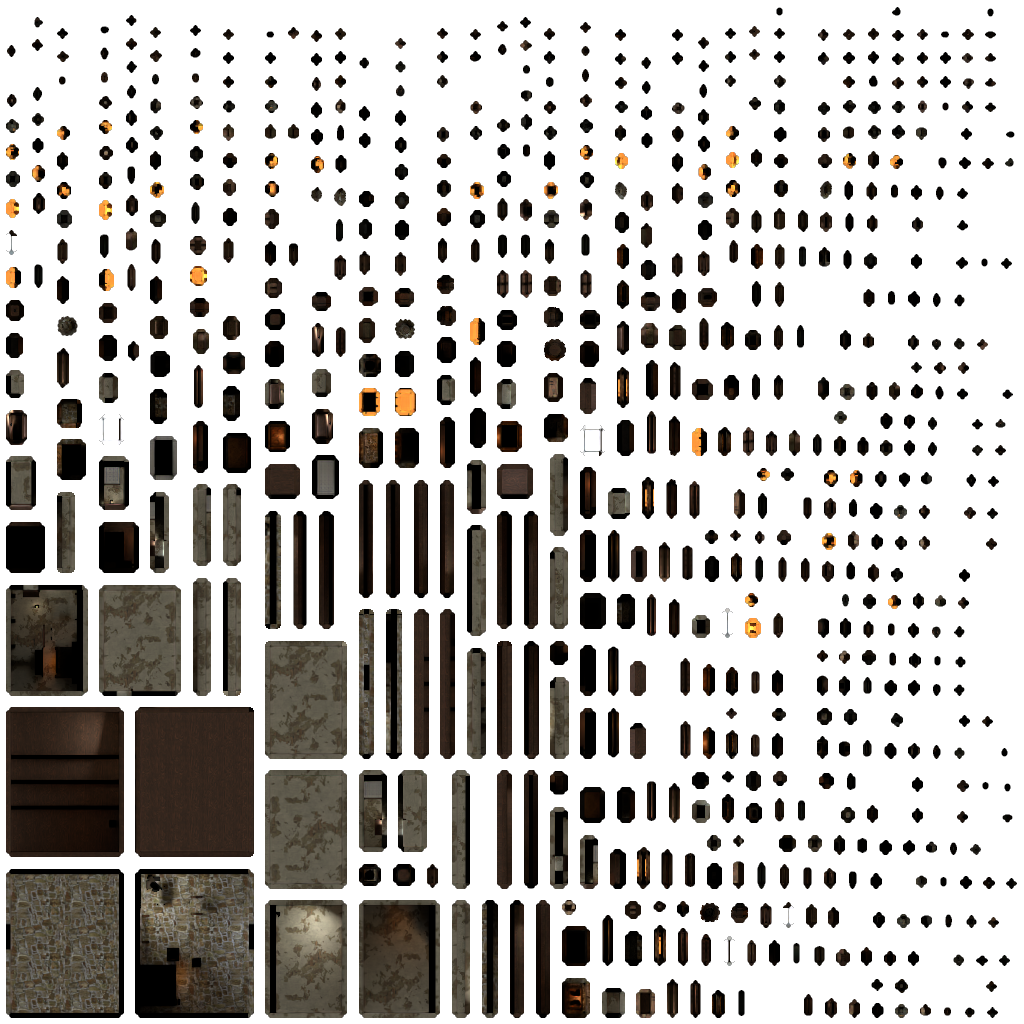
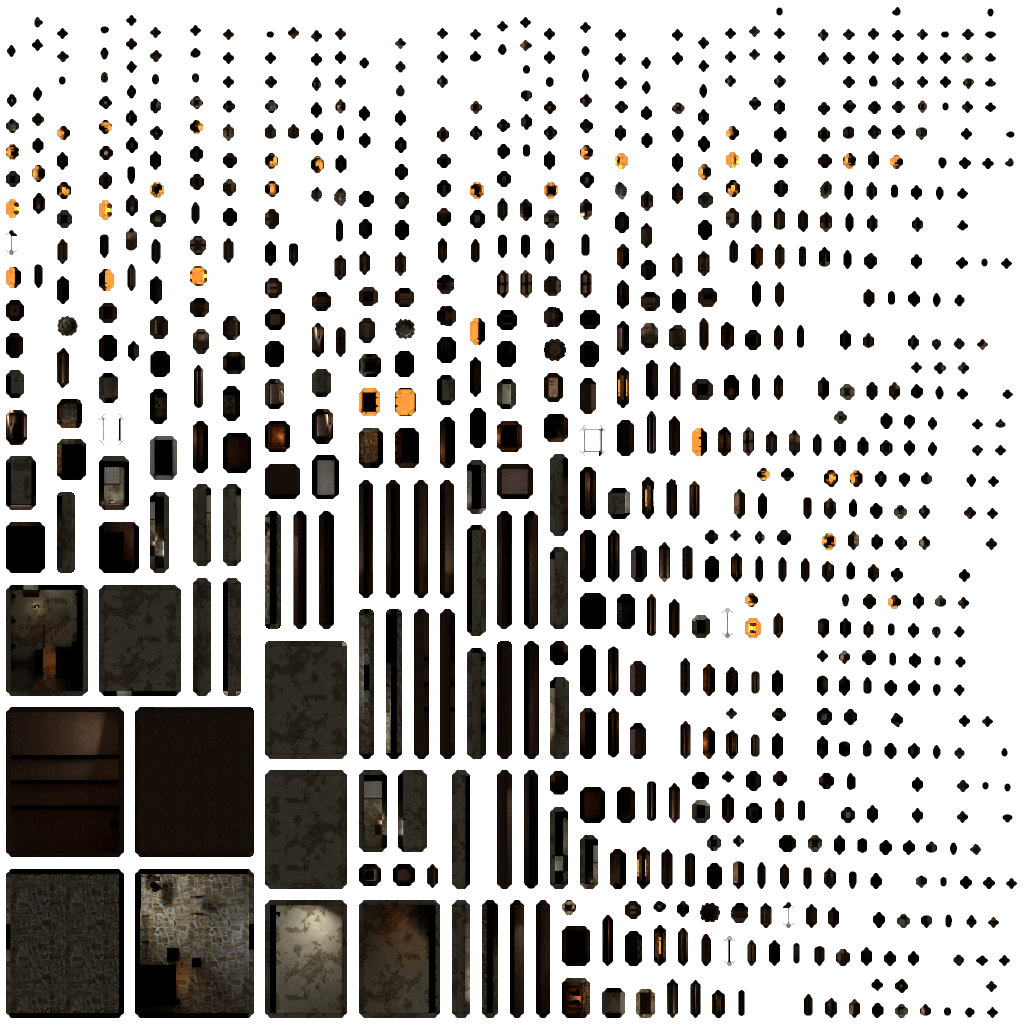
St. Maria: light the shops for the mood, instead of fogging them into it
The in-engine 3D rooms read better than the plates -- more grit, more
palette -- and the reason turned out to be three separate things wearing one
impression.

The darkness was engine fog. Neither map carries a `fog` key, so FOG_DEFAULTS
applied: black, distance 8.0, minFactor 0.12, ground_distance from the room's
middle. Neutralising it puts the world strip at mean 92.14 against 45.02, so
the room was keeping 48.9% of its brightness, with a real radial profile
(centre 0.549, edges 0.456/0.498). Attractive, and the wrong mechanism: fog is
a uniform multiply toward black, so it dimmed the oven mouth and the window by
the same 51% it dimmed the plaster.

The fix belongs in the source scene. base_lighting's own comment says the fill
is "the largest light in any of these rooms by far", so cutting it darkens
everything the room does not light for itself and leaves everything it does.
From --ambient 0.55 to 0.08 the Padaria's median falls 103 -> 53 (-48%) while
its top 2% -- the oven and the window -- moves 211 -> 204 (-3%). The smith's
median falls 81 -> 27 (-67%) against 190 -> 181 (-4%).

0.55 was never the intended value. st-maria-interior-authoring.md documents the
build command as --ambient 0.13; 0.55 is the argparse default and the flag was
never passed. Both defaults now match the documented value so the discrepancy
cannot cost a third room, and both plates and both bakes were regenerated at
0.13. Nothing about the rooms was re-authored.
[…]

diff --git a/tools/blender/stage_room_model.py b/tools/blender/stage_room_model.py
@@ -542,8 +542,16 @@ def main() -> None:
                         default=INTERIOR_FILL, metavar=("R", "G", "B"),
                         help="baseline fill colour; warm for interiors, "
                              "blue only for an exterior under open sky")
-    parser.add_argument("--ambient", type=float, default=0.55,
-                        help="diffuse baseline visibility (world light)")
+    parser.add_argument("--ambient", type=float, default=0.13,
+                        help="diffuse baseline visibility (world light). "
+                             "Low on purpose: the fill is the largest light "
+                             "in these rooms, so raising it flattens every "
+                             "authored lamp into the wall behind it. At 0.55 "
+                             "the Padaria's median brightness is 103 and its "
+                             "oven mouth 211; at 0.13 the median falls to 64 "
+                             "while the oven holds 205. Cutting the fill "
+                             "costs the practicals almost nothing and buys "
+                             "the room its contrast")
     parser.add_argument("--target-width", type=int, default=None,
                         help="override the target width in native px. The "
                              "game's default horizontal resolution is 256; "

diff --git a/tools/blender/export_room_environment.py b/tools/blender/export_room_environment.py
@@ -203,7 +203,7 @@ def main() -> None:
     parser.add_argument("--atlas-size", type=int, default=1024)
     parser.add_argument("--samples", type=int, default=24)
     parser.add_argument("--decimate", type=float, default=1.0)
-    parser.add_argument("--ambient", type=float, default=0.55,
+    parser.add_argument("--ambient", type=float, default=0.13,
                         help="world fill strength for the bake; must match the plate render or the two presentations are lit differently")
     parser.add_argument("--span", type=float, default=7.7667)
     parser.add_argument("--ceiling", type=float, default=3.9)

diff --git a/docs/reports/st-maria-shops-walkable-2026-08-27.md b/docs/reports/st-maria-shops-walkable-2026-08-27.md
@@ -193,10 +193,11 @@ survives the plate and smears in the bake. That material was tuned to read at
 about five screen pixels; it cannot also survive being resampled through a
 loose atlas.
 
-**The 3D room is still darker,** even after the bake was given the same 0.55
-world fill as the plate. The remaining gap is a Cycles COMBINED bake at 24
-samples against an EEVEE render, which is a real difference in how the two
-integrators handle these dim interior lamps, not a configuration error.
+**The 3D room is darker, and it is fog** -- see "Where the grit came from"
+below. This paragraph previously blamed a Cycles-versus-EEVEE integrator
+difference. That was a guess, and measurement contradicted it: neutralising
+fog alone restores the 3D room to 2.04x its brightness, which leaves nothing
+for the integrators to explain.
 
 **What the 3D version gets that the plate cannot have:** the floor continues
 below the plate's front edge as real geometry, the room has genuine depth for
@@ -223,6 +224,82 @@ authored lamps alone and comes out a cave. The export now calls the stager's
 own `base_lighting` with the same numbers, so the two presentations are lit
 identically and the comparison measures presentation rather than exposure.
 
+## Where the grit came from
+
+The maintainer preferred the in-engine 3D look -- "the palette, lighting and
+dithering give it a lot more grit" -- but wanted those qualities in the
+PRE-RENDERED pipeline rather than adopting realtime 3D backdrops. Three
+separate causes turned out to be behind one impression.
+
+### The darkness was fog, and fog was the wrong tool for it
+
+Neither map carries a `fog` key, so `FOG_DEFAULTS` applied -- and they are
+not neutral: black fog, `startDist` 0, `distance` 8.0, `minFactor` 0.12,
+measured as `ground_distance` radially from the camera target, which in a
+room this small is its middle.
+
+Neutralising fog on map 28 and re-rendering put the world strip at mean
+92.14 against 45.02 with fog -- **the room was keeping 48.9% of its
+brightness** -- with a genuine radial profile (lane centre 0.549, left edge
+0.456, right edge 0.498). That vignette is why it read as depth rather than
+as underexposure.
+
+But fog is a **uniform multiply toward black**. It dimmed the oven mouth and
+the window by the same 51% it dimmed the plaster, which is precisely what a
+lit interior must not do. The mood was right and the mechanism was wrong.
+
+### The fix is in the source scene: cut the fill, not the sources
+
+`base_lighting`'s own comment already says the fill "is the largest light in
+any of these rooms by far". Lowering it darkens everything the room does not
+light for itself, and leaves everything it does. Measured across the sweep:
+
+| | median (the fill) | top 2% (window and fire) |
+|---|---|---|
+| Padaria, `--ambient` 0.55 -> 0.08 | 103 -> 53 (**-48%**) | 211 -> 204 (-3%) |
+| Smith, `--ambient` 0.55 -> 0.08 | 81 -> 27 (**-67%**) | 190 -> 181 (-4%) |
+
+That is the entire difference from fog in one table, and it is why fog was
+not adopted for the plates.
+
+**0.55 was never the intended value.** `st-maria-interior-authoring.md`
+documents the build command as `--ambient 0.13`; 0.55 is the argparse
+default, and the plates were rendered without passing the flag the design
+doc specifies. The default now matches the documented value in both
+`stage_room_model.py` and `export_room_environment.py`, so the discrepancy
+cannot cost a third room. Both plates and both bakes were regenerated at
+0.13; nothing about the rooms themselves was touched.
+
+### Fog is off on the two baked interiors
+
+With the bake carrying the contrast, default fog became a second darkening of
+a room that no longer needed one, and the smith went nearly unreadable. Maps
+28 and 29 now carry `"fog": { "minFactor": 1.0 }`, which holds `fogVisibility`
+at 1 everywhere. The rooms are lit by their own lamps, which is the point.
+
+This is a decision about *indoor* rooms specifically. Outdoors, distance fog
+is doing real work and the default stands.
+
+### The artifacting already existed
+
+The eight generated town plates go through `tools/towngen/ps1_filter`; the two
+Blender-rendered ones did not, which made them the smooth, clean odd ones out
+on the same street. They now do. `apply_to_plate` lifts the world-strip rule
+out of `generate_plates` rather than letting a second copy exist -- a plate is
+240 tall but only the top 144 is composition, and the DCT smears the hard
+black band below it upward into the ground line.
+
+The era contrast grade is deliberately **off**. It exists to lift a generated
+frame sitting in its midtones; on this pair it raised the mean from 97 to 140
+and blew out the windows, and it moves *brighter* when what was wanted was
+darker. What is applied is the artifacting alone: 1611 colours down to 141 in
+a flat plaster crop, crosshatch visible at 1:1.
+
+Worth naming as a known gap: the engine runs `quantizeWithDither` in
+`retro_mesh_shader` on every pixel it draws, and the 2D path bypasses the
+shader entirely. `ps1_filter` is a good-faith reproduction of the same idea,
+not the same code. The two dithers are not guaranteed to agree.
+
 ## Open
 
 - The Market Row plate does not draw the Padaria's door. The doorway exists in
@@ -235,6 +312,12 @@ identically and the comparison measures presentation rather than exposure.
   silhouette — and it is honestly derived, but the intended collapse is
   coarser. `--decimate` exists and defaults to 1.0, because collapsing boxes
   blindly tears shared edges.
+- **The window clips to flat white in both baked 3D rooms.** With fog off,
+  the window emission in the Cycles COMBINED bake reaches 1.0 in the atlas
+  and the mullions are lost; the plate, rendered through EEVEE with the same
+  lamp, keeps them. Fog was hiding this, not fixing it. The proper fix is the
+  window lamp energy in the recipe, which is an art edit to the source scene
+  and was left alone here.
 - The counter and the anvil sit behind the action plane, so the player walks in
   front of them. A `foregrounds` layer carrying the counter would let the
   player and Alicia stand *behind* it, which is what a shop counter is for.

diff --git a/docs/design/st-maria-interior-authoring.md b/docs/design/st-maria-interior-authoring.md
@@ -520,6 +520,23 @@ Render it against the real camera with a Walker in shot:
 blender --background --python tools/blender/stage_room_model.py -- --model projects/hichaukitoden-game/assets/authoring/environments/<map>.blend --ambient 0.13 --render out/<map>.png
 ```
 
+**`--ambient` is the single most consequential number here, and low is
+right.** The fill is the largest light in any of these rooms, so raising it
+flattens every authored lamp into the wall behind it: the oven stops being a
+light and becomes an orange rectangle. Cutting it costs the practicals almost
+nothing and buys the room its contrast -- from 0.55 to 0.08 the Padaria's
+median brightness falls 48% while its oven mouth loses 3%.
+
+Do not reach for engine fog to get the same mood. Fog is a uniform multiply
+toward black, so it dims the window and the fire by exactly as much as the
+plaster, which is the one thing a lit interior must not do. Measured on the
+baked Padaria, default fog was taking 51% of the room. Indoor maps that carry
+their own contrast should turn it off with `"fog": { "minFactor": 1.0 }`.
+
+This was learned the expensive way: the two shop plates shipped at the 0.55
+argparse default because the flag above was not passed, and the mood was then
+nearly restored with fog instead. The default is now 0.13, matching this page.
+
 The stager **measures rather than trusts**. It fails if the Walker does not
 project to exactly 48 px, if the feet fall below the character floor limit, or
 if the camera basis is mirrored. A clean run is evidence; a render that merely
